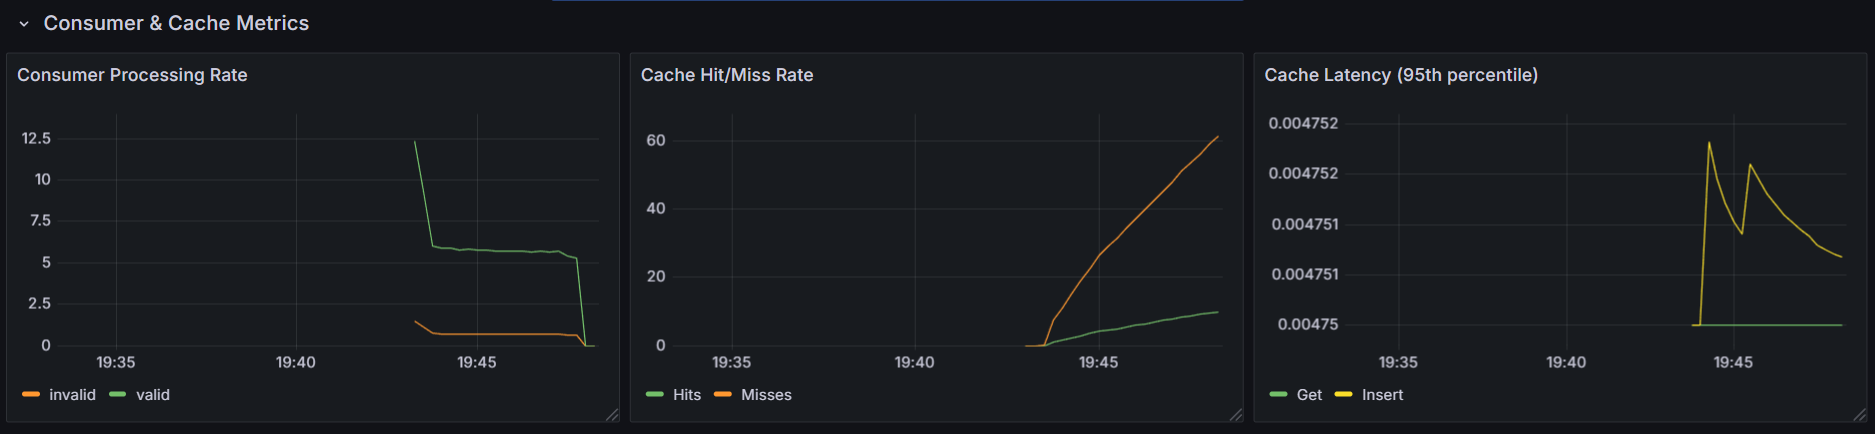
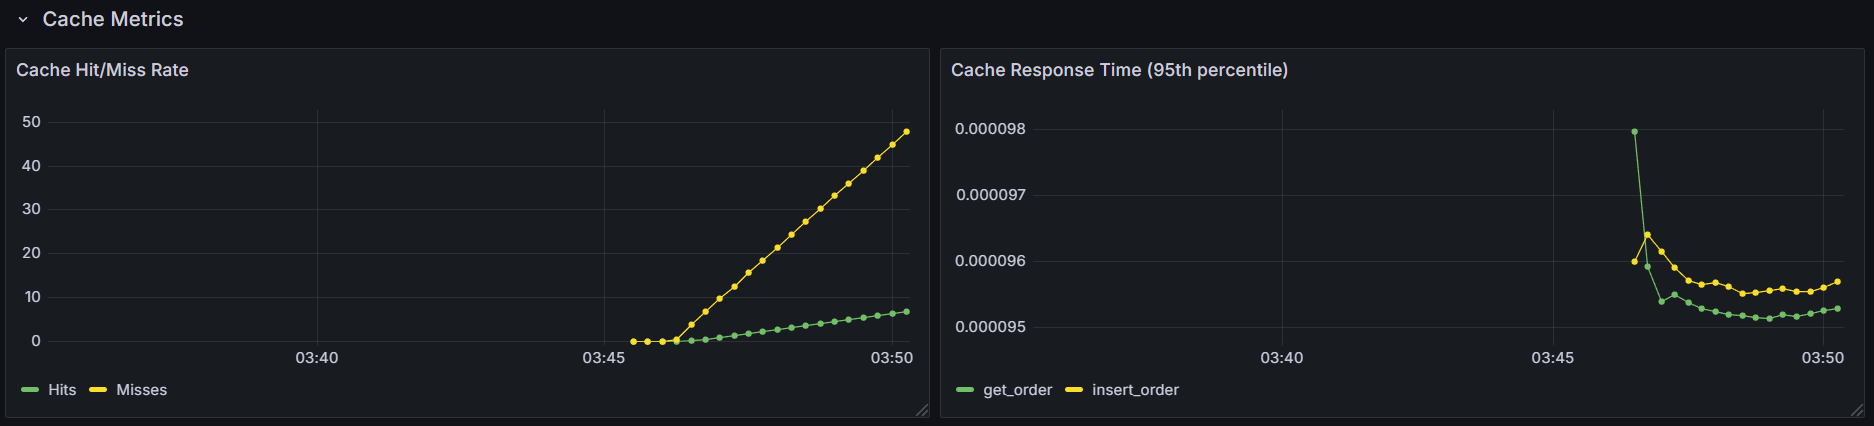
docs: update to accompany the metrics and observability changes

diff --git a/README.ru.md b/README.ru.md
@@ -329,40 +329,64 @@ make migrate
 
 ## Метрики / Мониторинг / Наблюдаемость
 
-Проект настроен с использованием Prometheus для сбора метрик и Grafana для их визуализации, а также структурированного логирования с помощью Zap.
+Проект настроен с использованием Prometheus для сбора метрик, Grafana для их визуализации и Node-exporter для метрик на уровне хоста, а также структурированного логирования с помощью Zap.
 
-### Метрики
+### Сбор метрик
 
-Ключевые метрики предоставляются приложением через эндпоинт `/metrics` (собираются Prometheus) и определены в `internal/pkg/metrics/metrics.go`. К ним относятся:
+Метрики собираются из различных компонентов приложения и хост-системы:
 
-*   **Метрики HTTP-запросов:**
-    *   `http_total_requests`: общее количество HTTP-запросов с метками по методу, пути и коду ответа.
-    *   `http_request_duration`: гистограмма длительности HTTP-запросов с метками по методу и пути.
-*   **Метрики потребителя:**
-    *   `consumer_processed_total`: общее количество обработанных сообщений потребителем Kafka с метками по статусу (т. е. `valid`, `invalid`, `error`).
-*   **Метрики кэша:**
-    *   `cache_hits_total`: общее количество попаданий в кэш.
-    *   `cache_misses_total`: общее количество промахов кэша.
-    *   `cache_response_time`: гистограмма времени ответа кэша с метками по операции (например, `get_order`, `insert_order`).
-*   **Метрики базы данных:**
-    *   `db_response_time`: гистограмма времени ответа базы данных с метками по операции (`get` или `insert`)
-    *   `db_up`: бинарный показатель доступности базы данных (1 — доступна, 0 — недоступна, отображается как 'OK' или 'FAIL' соотв.)
-    *   `db_transient_err_total`: Общее количество восстановимых ошибок БД (например потери соединения более определенного интервала времени).
+*   **Метрики системы-хоста:** Собираются Node-exporter'ом, включают нагрузку на CPU, использование RAM, Load Average (1м, 5м, 15м) и Network I/O.
+*   **Метрики приложения:** Предоставляются приложением через эндпоинт `/metrics` (собираются Prometheus) и определены в `internal/pkg/metrics/metrics.go`. К ним относятся:
+    *   **Метрики HTTP-запросов:**
+        *   `http_total_requests`: общее количество HTTP-запросов с метками по методу, пути и коду ответа.
+        *   `http_request_duration`: гистограмма длительности HTTP-запросов с метками по методу и пути.
+    *   **Метрики потребителя:**
+        *   `consumer_processed_total`: общее количество обработанных сообщений потребителем Kafka с метками по статусу (т. е. `valid`, `invalid`, `error`).
+        *   `consumer_processing_latency`: гистограмма длительности обработки сообщений.
+        *   `consumer_lag`: показатель текущего отставания потребителя.
+        *   `consumer_dlq_sent_total`: общее количество сообщений, отправленных в Dead-Letter Queue.
+    *   **Метрики кэша:**
+        *   `cache_hits_total`: общее количество попаданий в кэш.
+        *   `cache_misses_total`: общее количество промахов кэша.
+        *   `cache_response_time`: гистограмма времени ответа кэша с метками по операции (например, `get_order`, `insert_order`).
+    *   **Метрики базы данных:**
+        *   `db_response_time`: гистограмма времени ответа базы данных с метками по операции.
+        *   `db_up`: бинарный показатель доступности базы данных (1 — доступна, 0 — недоступна, отображается как 'OK' или 'FAIL' соотв.)
+        *   `db_transient_err_total`: Общее количество восстановимых ошибок БД (например потери соединения более определенного интервала времени).
 
 ### Мониторинг с помощью Prometheus и Grafana
 
 Prometheus и Grafana развертываются через `docker-compose.yml` для комплексного мониторинга.
 
 *   **Prometheus:**
-    *   Настроен на сбор метрик с сервиса `app` (основной API потребителя) по адресу `http://app:8080/metrics`, как определено в `configs/prometheus/prometheus.yml`.
+    *   Настроен на сбор метрик с сервиса `app` (основной API потребителя) по адресу `http://app:8080/metrics` и Node-exporter по адресу `http://node-exporter:9100/metrics`, как определено в `configs/prometheus/prometheus.yml`.
     *   Доступен на хосте через порт `9090` (настраивается через `PROMETHEUS_PORT` в `.env`).
 
 *   **Grafana:**
-    *   Предварительно настроен с дашбордом (`configs/grafana/provisioning/dashboards/dashboard.json`), который визуализирует ключевые метрики приложения.
+    *   Предварительно настроен с дашбордом (`configs/grafana/provisioning/dashboards/dashboard.json`), который визуализирует ключевые метрики приложения и метрики хост-системы.
     *   Использует источник данных Prometheus, настроенный в `configs/grafana/provisioning/datasources/datasource.yml`.
     *   Доступен на хосте через порт `3000` (настраивается через `GRAFANA_PORT` в `.env`).
 
-Для доступа к дашбордам перейдите по адресу `http://localhost:3000` (или по вашему настроенному порту Grafana) в браузере после запуска `docker compose up` или `make run-all`. Аккаунт и пароль по умолчанию: `admin` в обоих полях. 
+Для доступа к дашбордам перейдите по адресу `http://localhost:3000` (или по вашему настроенному порту Grafana) в браузере после запуска `docker compose up` или `make run-all`. Аккаунт и пароль по умолчанию: `admin` в обоих полях.
+
+### Пример метрик в Grafana
+
+Собрано с помощью python-скрипта [locust](https://github.com/locustio/locust) с ~70 запросами в секунду по адресу `/orders/{id}` почти с самого запуска брокера, продюсера, бд и т.д.
+
+#### Метрики системы:
+![host_metric](docs/host_metric.png)
+
+#### Метрики API:
+![api_metric](docs/api_metric.png)
+
+#### Метрики потребителя:
+![cons_metric](docs/cons_metric.png)
+
+#### Метрики кэша:
+![cache_metric](docs/cache_metric.png)
+
+#### Метрики БД:
+![db_metric](docs/db_metric.png)
 
 ### Логирование
 

diff --git a/README.md b/README.md
@@ -340,40 +340,64 @@ This command connects to the PostgreSQL database using environment variables (e.
 
 ## Metrics / Monitoring / Observability
 
-The project is set up with Prometheus for metrics collection and Grafana for visualization, along with structured logging using Zap.
+The project is set up with Prometheus for metrics collection, Grafana for visualization, and Node-exporter for host-level metrics, along with structured logging using Zap.
 
-### Metrics
+### Metrics Collection
 
-Key metrics are exposed by the application via the `/metrics` endpoint (scraped by Prometheus) and defined in `internal/pkg/metrics/metrics.go`. These include:
+Metrics are collected from various components of the application and the host system:
 
-*   **HTTP Request Metrics:**
-    *   `http_total_requests`: Total count of HTTP requests, labeled by method, path, and response code.
-    *   `http_request_duration`: Histogram of HTTP request durations, labeled by method and path.
-*   **Consumer Metrics:**
-    *   `consumer_processed_total`: Total number of processed messages by the Kafka consumer, labeled by status (i.e., `valid`, `invalid`, `error`).
-*   **Cache Metrics:**
-    *   `cache_hits_total`: Total number of cache hits.
-    *   `cache_misses_total`: Total number of cache misses.
-    *   `cache_response_time`: Histogram of cache response durations, labeled by operation (e.g., `get_order`, `insert_order`).
-*   **Database Metrics:**
-    *   `db_response_time`: Histogram of database response durations, labeled by operation.
-    *   `db_up`: Gauge indicating database reachability (1 for up, 0 for down, displayed as either 'OK' or 'FAIL').
-    *   `db_transient_err_total`: Total number of recoverable database errors ('hiccups').
+*   **Host System Metrics:** Collected by Node-exporter, these include CPU load, RAM usage, Load Average (1m, 5m, 15m), and Network I/O.
+*   **Application Metrics:** Exposed by the application via the `/metrics` endpoint (scraped by Prometheus) and defined in `internal/pkg/metrics/metrics.go`. These include:
+    *   **HTTP Request Metrics:**
+        *   `http_total_requests`: Total count of HTTP requests, labeled by method, path, and response code.
+        *   `http_request_duration`: Histogram of HTTP request durations, labeled by method and path.
+    *   **Consumer Metrics:**
+        *   `consumer_processed_total`: Total number of processed messages by the Kafka consumer, labeled by status (i.e., `valid`, `invalid`, `error`).
+        *   `consumer_processing_latency`: Histogram of message processing durations.
+        *   `consumer_lag`: Gauge showing the current consumer lag.
+        *   `consumer_dlq_sent_total`: Total messages sent to the Dead-Letter Queue.
+    *   **Cache Metrics:**
+        *   `cache_hits_total`: Total number of cache hits.
+        *   `cache_misses_total`: Total number of cache misses.
+        *   `cache_response_time`: Histogram of cache response durations, labeled by operation (e.g., `get_order`, `insert_order`).
+    *   **Database Metrics:**
+        *   `db_response_time`: Histogram of database response durations, labeled by operation.
+        *   `db_up`: Gauge indicating database reachability (1 for up, 0 for down, displayed as either 'OK' or 'FAIL').
+        *   `db_transient_err_total`: Total number of recoverable database errors ('hiccups').
 
 ### Monitoring with Prometheus and Grafana
 
 Prometheus and Grafana are deployed via `docker-compose.yml` for comprehensive monitoring.
 
 *   **Prometheus:**
-    *   Configured to scrape metrics from the `app` service (the main consumer API) at `http://app:8080/metrics` as defined in `configs/prometheus/prometheus.yml`.
+    *   Configured to scrape metrics from the `app` service (the main consumer API) at `http://app:8080/metrics` and Node-exporter at `http://node-exporter:9100/metrics` as defined in `configs/prometheus/prometheus.yml`.
     *   Accessible on the host via port `9090` (configurable via `PROMETHEUS_PORT` in `.env`).
 
 *   **Grafana:**
-    *   Pre-provisioned with a dashboard (`configs/grafana/provisioning/dashboards/dashboard.json`) that visualizes the application's key metrics.
+    *   Pre-provisioned with a dashboard (`configs/grafana/provisioning/dashboards/dashboard.json`) that visualizes the application's key metrics and host system metrics.
     *   Uses a Prometheus data source configured in `configs/grafana/provisioning/datasources/datasource.yml`.
     *   Accessible on the host via port `3000` (configurable via `GRAFANA_PORT` in `.env`).
 
 To access the dashboards, navigate to `http://localhost:3000` (or your configured Grafana port) in your browser after running `docker compose up` or `make run-all`.
+
+### Example Metrics in Grafana
+
+Collected using a [locust](https://github.com/locustio/locust) python script with ~70 requests per second to `/orders/{id}` almost from the very start of the broker, producer, db, etc.
+
+#### System Metrics:
+![host_metric](docs/host_metric.png)
+
+#### API Metrics:
+![api_metric](docs/api_metric.png)
+
+#### Consumer Metrics:
+![cons_metric](docs/cons_metric.png)
+
+#### Cache Metrics:
+![cache_metric](docs/cache_metric.png)
+
+#### DB Metrics:
+![db_metric](docs/db_metric.png)
 
 ### Logging
 

diff --git a/docs/misc.md b/docs/misc.md
@@ -1,43 +1,46 @@
 # Sentinel errors
-How would a worker notice if the data is bad? And more importantly why its bad? Is even the data bad?..
-That's why the store package contains so-called sentinel errors:
 ``` Go
 var (
-	ErrNotFound = errors.New("no such record exists")
+	ErrNotFound = errors.New("no record found")
 	ErrAlreadyExists = errors.New("record already exists")
-	ErrConnectionFailed = errors.New("connection to the database failed")
+	ErrConnectionFailed = errors.New("failed connection to DB")
 )
 ```
-The errors just bubble up nicely and the upper layers are not actually concerned with an exact type of errors, so even if the storage changes later (e.g. unique_violation in psql is `23505`, but mysql has a `1062` code for the same thing). Kinda decouples the store and the upper layers. An example use of it is when it 'bubbles up' to the worker, it instantly marks the db as unhealthy using the HealthChecker
+These errors "bubble up", and the upper layers are not actually concerned with the exact type of errors. Thus, even if the data store changes later (e.g., `unique_violation` in PostgreSQL has code `23505`, and MySQL uses code `1062` for the same thing), it will not affect them. An example of use is when an error "bubbles up" to the worker, it immediately marks the database as unhealthy using the HealthChecker.
 
 # DBHealthChecker
-Is a simple pinger with a configurable interval and a configurable timeout in a single ping. It runs all the time, but is activated early by a worker. Initially I had an idea of it running only when the db is found to be down by a worker, but it was too complex to manage it, thus `MarkUnhealthy()` is a sort of legacy thing, that finds its use when the healthchecker itself has a big interval (e.g. 15s) to prevent partitions from Kafka to be dispatched unneccesarily.
-The health package can be found [here](../internal/pkg/health/dbhealth.go)!
+This is a simple "pinger" with a configurable interval and a configurable timeout for a single ping. It runs constantly, but its atomic.Bool variable can be changed by the worker earlier than the ping interval. Initially, I had the idea for it to run only when the worker detects that the database is unavailable, but managing this proved too complex. Therefore, `MarkUnhealthy()` is a kind of legacy that finds its use when the healthchecker itself has a large interval (e.g., 15 seconds) or simply to prevent unnecessary sending of partitions from Kafka, for example, to redistribute the load faster.
+The `health` package can be found [here](../internal/pkg/health/dbhealth.go)!
 
 # Monitoring
-The service utilises Prometheus and Grafana, the metrics are pretty simple because:
-* I actually (almost) never did any monitoring/metrics scraping before.
-* Time.
+The service uses Prometheus, Grafana, and Node-exporter:
+- **Host system metrics:** CPU load, RAM, Load Average (1m, 5m, 15m), Network I/O
+- **API metrics:** number of requests and their latencies
+- **Consumer metrics:** processing frequency, processing latency, consumer lag, and DLQ sending frequency
+- **Cache:** hit/miss rate and cache response speed for Get/Insert requests
+- **DB:** connection availability, processing time for Get/Insert requests, and frequency of transient errors (connection violations not longer than 5 ms).
 
-So the metrics are:
-* **HTTP total requsts** and **HTTP request duration** because might be useful for maybe data engeneers (possibly?(maybe..?))
-* **Consumer processed count** is the amount of messages (of 3 types: valid, invalid, errors) processed total
-* **Cache hits and cache misses** to maybe be able to adjust cache max entries or max size of a single entry according to the needs of usage. Same for the **cache response time**.
-* And **Is db up?**, **Database response time** and **Database transient errors** to maybe ease the load if the db starts to hiccup (or dies).
+## Example of metrics displayed in Grafana
+Collected using a [locust](https://github.com/locustio/locust) python script with ~70 requests per second to `/orders/{id}` almost from the very start of the broker, producer, db, etc.
+### System metrics:
+![host_metric](../host_metric.png)
 
-## An example of metrics displayed with grafana
-Collected using a [locust](https://github.com/locustio/locust) python script with ~2500 concurrent users (my pc startet throttling at about 1000, which can clearly be seen with the db 'Get' requests taking a lot more time than expected!)
-### Database:
+### API metrics:
+![api_metric](../api_metric.png)
 
-![db_metric](db_metric.png)
+### Consumer metrics:
+![cons_metric](../cons_metric.png)
 
-### Cache:
-![cache_metric](cache_metric.png)
+### Cache metrics:
+![cache_metric](../cache_metric.png)
+
+### DB metrics:
+![db_metric](../db_metric.png)
 
 ### Other Documentation:
 * [Database Schema](database.md)
-* [Consumer Decision Tree](consumer.md)
+* [Consumer Principles](consumer.md)
 * [Cache Implementation](cache.md)
 * [JSON Validation](validation.md)
 
-### Back to [Main README](../README.md)
+### Back to [Main README](../../README.md)

diff --git a/docs/ru/misc.ru.md b/docs/ru/misc.ru.md
@@ -13,21 +13,29 @@ var (
 Пакет `health` можно найти [здесь](../internal/pkg/health/dbhealth.go)!
 
 # Мониторинг
-Сервис использует Prometheus и Grafana, метрики довольно простые:
-
-*   **Общее количество HTTP-запросов** и **продолжительность HTTP-запросов**, потому что это может быть полезно для инженеров данных (возможно?(может быть..?))
-*   **Количество обработанных сообщений потребителем** — это общее количество обработанных сообщений (трех типов: валидные, невалидные, ошибки).
-*   **Попадания и промахи в кэше**, чтобы иметь возможность настраивать максимальное количество записей в кэше или максимальный размер одной записи в соответствии с потребностями использования. То же самое касается и **времени ответа кэша**.
-*   И **Доступна ли БД?**, **Время ответа базы данных** и **Временные ошибки базы данных**, чтобы, возможно, снизить нагрузку, если база данных начнет "икать" или соединение с ней вовсе пропадет.
+Сервис использует Prometheus, Grafana и Node-export:
+- **Метрики системы-хоста:** нагрузка на CPU, RAM, Load Average (1m, 5m, 15m), Network I/O
+- **Метрики API:** количество запросов а также их задержки 
+- **Метрики потребителя:** частота обработки, задержка обработки, лаг потребителя и частота отправки в DLQ
+- **Кэш:** частота попаданий/промахов и скорость ответа кэша на запросы Get/Insert
+- **БД:** наличие соединения, время обработки запросов Get/Insert и частота транзиент-ошибок (нарушений соединения, которые не длиннее 5 мс).
 
 ## Пример метрик, отображаемых в Grafana
-Собрано с помощью python-скрипта [locust](https://github.com/locustio/locust) с ~2500 одновременными пользователями (мой компьютер начал троттлить примерно на 1000, что хорошо видно по тому, как запросы 'Get' к БД стали занимать гораздо больше времени, чем ожидалось)
-### База данных:
+Собрано с помощью python-скрипта [locust](https://github.com/locustio/locust) с ~70 запросами в секунду по адресу `/orders/{id}` почти с самого запуска брокера, продюсера, бд и т.д.
+### Метрики системы:
+![host_metric](../host_metric.png)
 
-![db_metric](../db_metric.png)
+### Метрики API:
+![api_metric](../api_metric.png)
 
-### Кэш:
+### Метрики потребителя:
+![cons_metric](../cons_metric.png)
+
+### Метрики кэша:
 ![cache_metric](../cache_metric.png)
+
+### Метрики БД:
+![db_metric](../db_metric.png)
 
 ### Другая документация:
 * [Схема базы данных](database.ru.md)
